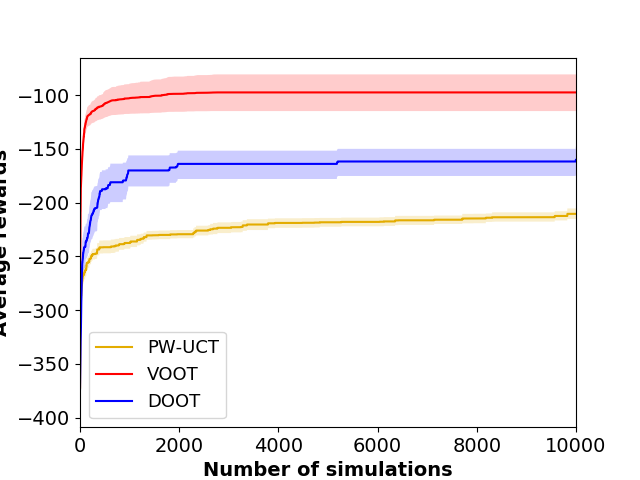
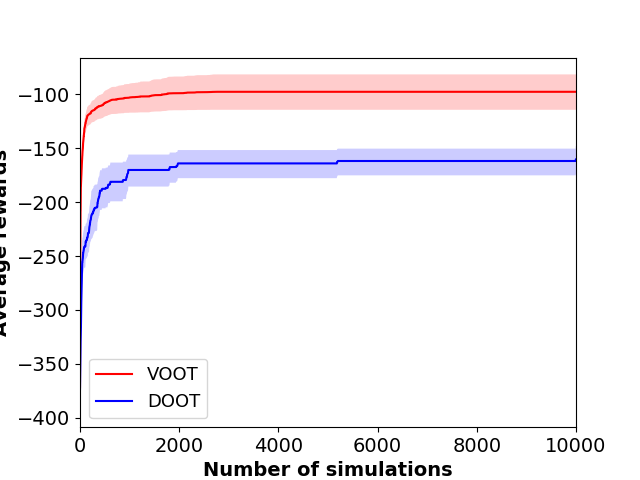
adding value threshold option

diff --git a/test_scripts/threaded_test_mcts.py b/test_scripts/threaded_test_mcts.py
@@ -1,5 +1,4 @@
 import os
-import sys
 from multiprocessing.pool import ThreadPool  # dummy is nothing but multiprocessing but wrapper around threading
 import argparse
 import time
@@ -22,13 +21,14 @@ def worker_p(config):
     n_switch = config['n_switch']
     voo_counter_ratio = config['counter_ratio']
     n_actions_per_node = config['n_actions_per_node']
+    value_threshold = config['value_threshold']
 
     command = 'python ./test_scripts/test_mcts.py -sampling_strategy ' + s + \
         ' -problem_idx ' + str(pidx) + ' -domain ' + d + ' -epsilon ' + str(e) + ' -w ' + str(w) + \
         ' -mcts_iter ' + str(mcts_iter) + ' -uct '+str(uct) + ' -n_feasibility_checks ' + str(n_feasibility_checks) + \
         ' -random_seed ' + str(seed) + ' -voo_sampling_mode ' + str(voo_sampling_mode) + ' -n_switch ' + str(n_switch) + \
         ' -voo_counter_ratio ' + str(voo_counter_ratio) + ' -c1 ' + str(config['c1']) + ' -n_actions_per_node ' + \
-          str(n_actions_per_node)
+          str(n_actions_per_node) + ' -value_threshold ' + str(value_threshold)
     if pw:
         command += ' -pw '
 
@@ -45,7 +45,7 @@ def worker_p(config):
         command += ' -add ' + add
 
     print command
-    os.system(command)
+    #os.system(command)
 
 
 def worker_wrapper_multi_input(multi_args):
@@ -74,6 +74,7 @@ def main():
     parser.add_argument('-pick_switch', action='store_true', default=False)
     parser.add_argument('-c1', type=float, default=1)
     parser.add_argument('-n_actions_per_node', type=int, default=1)
+    parser.add_argument('-value_threshold', type=float, default=-40.0)
     args = parser.parse_args()
 
     sampling_strategy = args.sampling_strategy
@@ -118,7 +119,8 @@ def main():
                                           'counter_ratio': counter_ratio,
                                           'pick_switch': args.pick_switch,
                                           'c1': args.c1,
-                                          'n_actions_per_node': args.n_actions_per_node}
+                                          'n_actions_per_node': args.n_actions_per_node,
+                                          'value_threshold': args.value_threshold}
                                 configs.append(config)
 
     n_workers = int(20)

diff --git a/test_scripts/test_mcts.py b/test_scripts/test_mcts.py
@@ -47,6 +47,9 @@ def make_save_dir(args):
                 +'_pick_switch_' + str(args.pick_switch) \
                 +'_n_actions_per_node_' + str(args.n_actions_per_node)
 
+    if domain.find('synthetic') != -1:
+        save_dir += '_value_threshold_' + str(args.value_threshold)
+
     if addendum != '':
         save_dir += '_' + addendum + '/'
     else:
@@ -129,10 +132,10 @@ def main():
     parser.add_argument('-use_max_backup', action='store_true', default=False)
     parser.add_argument('-pick_switch', action='store_true', default=False)
     parser.add_argument('-n_actions_per_node', type=int, default=1)
+    parser.add_argument('-value_threshold', type=float, default=40.0)
 
     args = parser.parse_args()
     RaveSetDebugLevel(DebugLevel.Error)
-
 
     if args.domain == 'convbelt':
         args.mcts_iter = 3000
@@ -233,7 +236,7 @@ def main():
         environment = problem_instantiator.environment
     else:
         if args.domain.find("rastrigin") != -1:
-            environment = RastriginSynthetic(args.problem_idx)
+            environment = RastriginSynthetic(args.problem_idx, args.value_threshold)
         elif args.domain.find("griewank") != -1:
             environment = GriewankSynthetic(args.problem_idx)
         elif args.domain.find("shekel") != -1:

diff --git a/problem_environments/synthetic_env.py b/problem_environments/synthetic_env.py
@@ -93,7 +93,7 @@ class ShekelSynthetic(SyntheticEnv):
 
 
 class RastriginSynthetic(SyntheticEnv):
-    def __init__(self, problem_idx):
+    def __init__(self, problem_idx, value_threshold):
         SyntheticEnv.__init__(self, problem_idx)
         self.name = 'synthetic_rastrigin'
         if problem_idx == 0:
@@ -101,7 +101,7 @@ class RastriginSynthetic(SyntheticEnv):
             self.feasible_action_value_threshold = -10
         elif problem_idx == 1:
             self.dim_x = 10
-            self.feasible_action_value_threshold = -30
+            self.feasible_action_value_threshold = value_threshold
         elif problem_idx == 2:
             self.dim_x = 20
             self.feasible_action_value_threshold = -100

diff --git a/plotters/plot_planning.py b/plotters/plot_planning.py
@@ -311,11 +311,11 @@ def plot_across_algorithms():
         algo_names = ['pw', 'voo_uniform', 'randomized_doo']
     elif args.domain.find('synthetic') != -1:
         if args.domain.find('shekel') != -1:
-            algo_names = ['pw', 'voo_centered_uniform', 'doo']
+            algo_names = ['voo_centered_uniform', 'doo']
         elif args.domain.find('griewank') != -1:
             algo_names = ['pw', 'voo_centered_uniform', 'doo']
         elif args.domain.find('rastrigin') != -1:
-            algo_names = ['pw', 'voo_centered_uniform', 'doo']
+            algo_names = ['voo_centered_uniform', 'doo']
 
     color_dict = pickle.load(open('./plotters/color_dict.p', 'r'))
     color_names = color_dict.keys()
